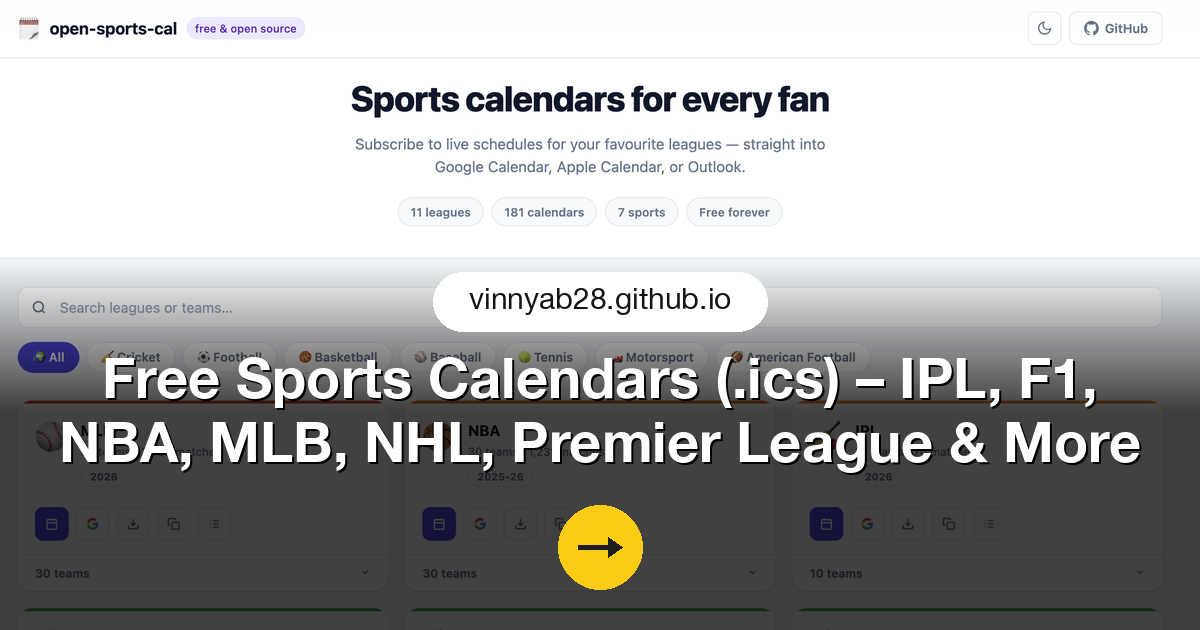
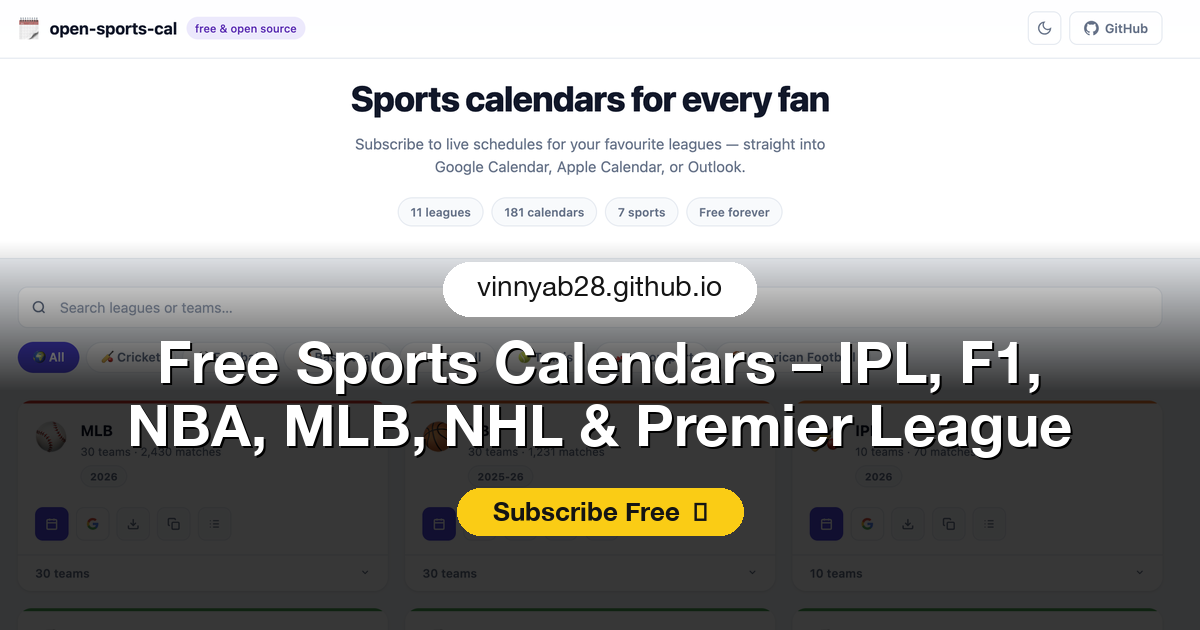
Fix SEO: shorten title/description, improve social preview image
- Title: 76 → 51 chars
- Description: 205 → 143 chars
- og:/twitter: tags updated to match
- Social preview: clearer headline + Subscribe Free CTA button

Changed region(s): [[0.0, 0.3921, 1.0, 0.9349]]

diff --git a/docs/index.html b/docs/index.html
@@ -3,8 +3,8 @@
     <head>
         <meta charset="UTF-8" />
         <meta name="viewport" content="width=device-width, initial-scale=1.0" />
-        <title>Free Sports Calendars (.ics) — IPL, F1, NBA, MLB, NHL, Premier League & More</title>
-        <meta name="description" content="Free sports iCal files for IPL, F1, NBA, MLB, NHL, Premier League, La Liga, Bundesliga, Serie A, Ligue 1 & MotoGP. Subscribe to live schedules in Google Calendar, Apple Calendar, or Outlook. Free forever." />
+        <title>Free Sports Calendars | IPL, F1, NBA, MLB & More</title>
+        <meta name="description" content="Free iCal files for IPL, F1, NBA, MLB, NHL & Premier League. Subscribe to live sports schedules in Google Calendar, Apple Calendar, or Outlook." />
         <meta name="keywords" content="sports calendar, ics calendar, icalendar, ipl calendar ics, nba calendar ics, mlb calendar ics, nhl calendar ics, f1 calendar ics, premier league calendar, google calendar sports, sports schedule, free sports ics" />
         <meta name="robots" content="index, follow" />
         <link rel="canonical" href="https://vinnyab28.github.io/open-sports-cal/" />
@@ -13,14 +13,14 @@
         <meta property="og:type" content="website" />
         <meta property="og:url" content="https://vinnyab28.github.io/open-sports-cal/" />
         <meta property="og:site_name" content="open-sports-cal" />
-        <meta property="og:title" content="Free Sports Calendars (.ics) — IPL, F1, NBA, MLB, NHL, Premier League & More" />
-        <meta property="og:description" content="Free sports iCal files for IPL, F1, NBA, MLB, NHL, Premier League, La Liga, Bundesliga, Serie A, Ligue 1 & MotoGP. Subscribe to live schedules in Google Calendar, Apple Calendar, or Outlook." />
+        <meta property="og:title" content="Free Sports Calendars | IPL, F1, NBA, MLB & More" />
+        <meta property="og:description" content="Free iCal files for IPL, F1, NBA, MLB, NHL & Premier League. Subscribe to live sports schedules in Google Calendar, Apple Calendar, or Outlook." />
         <meta property="og:image" content="https://vinnyab28.github.io/open-sports-cal/social-preview.png" />
 
         <!-- Twitter Card -->
         <meta name="twitter:card" content="summary_large_image" />
-        <meta name="twitter:title" content="Free Sports Calendars (.ics) — IPL, F1, NBA, MLB, NHL & More" />
-        <meta name="twitter:description" content="Subscribe to live sports schedules for IPL, F1, NBA, MLB, NHL, Premier League & more — straight into Google Calendar, Apple Calendar, or Outlook." />
+        <meta name="twitter:title" content="Free Sports Calendars | IPL, F1, NBA, MLB & More" />
+        <meta name="twitter:description" content="Free iCal files for IPL, F1, NBA, MLB, NHL & Premier League. Subscribe to live sports schedules in Google Calendar, Apple Calendar, or Outlook." />
         <meta name="twitter:image" content="https://vinnyab28.github.io/open-sports-cal/social-preview.png" />
 
         <!-- Structured Data -->
